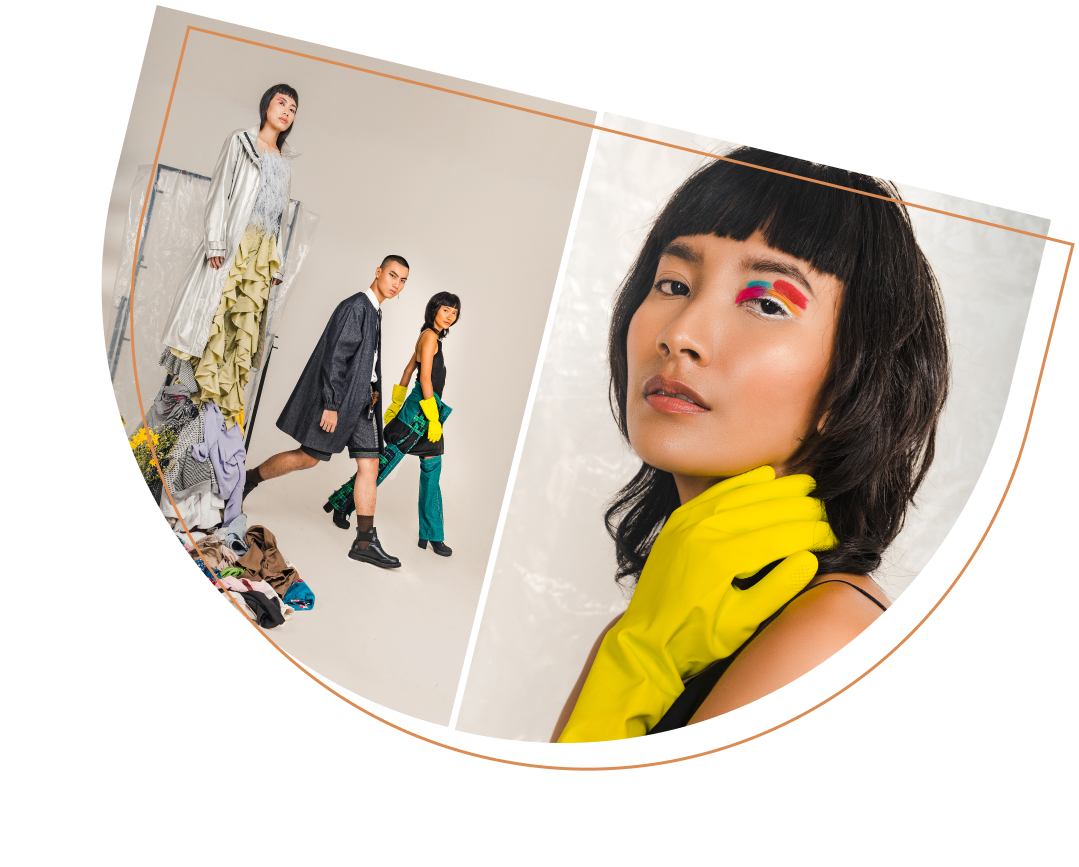
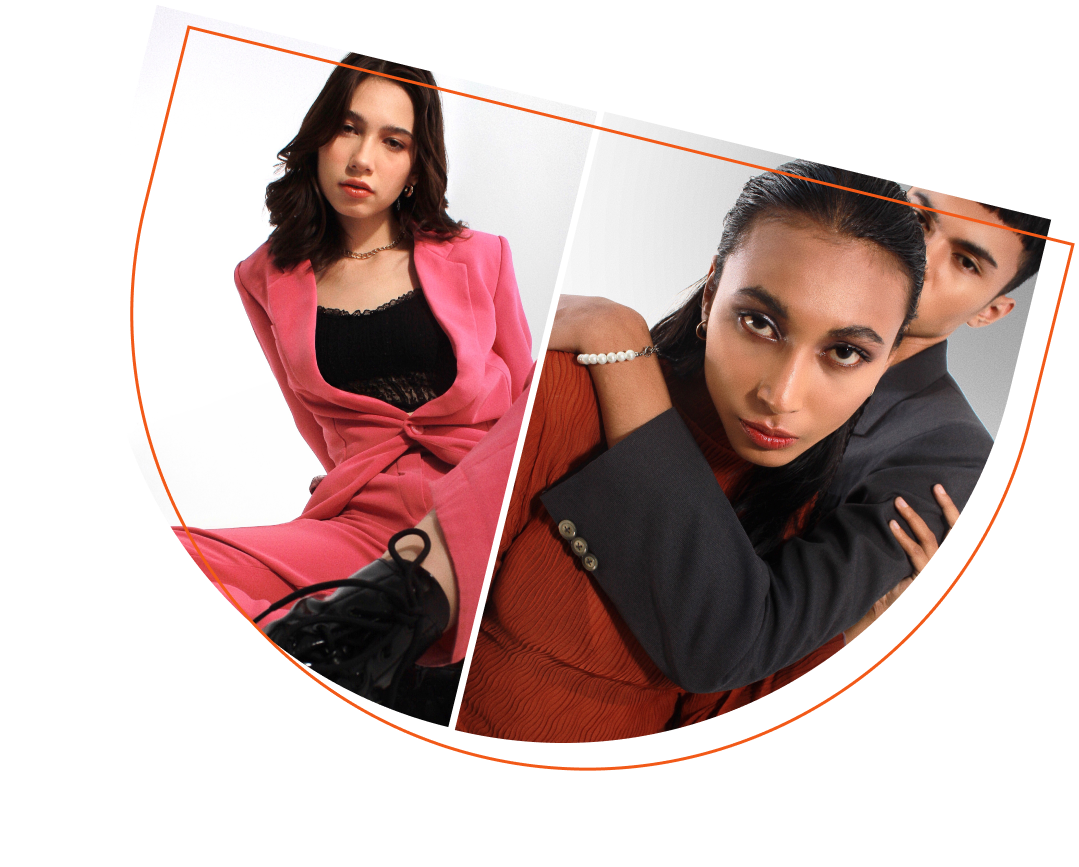
photo update

diff --git a/src/components/home/about/about.js b/src/components/home/about/about.js
@@ -12,9 +12,12 @@ import {
   AboutSectionPartHalfText,
   AboutSectionPartColumn,
   AboutContainerBg,
+  About3ImageContainer,
 } from "./about.element";
+import image_3_1 from "../../../assets/image/about/photo 1.png";
+import image_3_2 from "../../../assets/image/about/photo 2.png";
+import image_3_3 from "../../../assets/image/about/photo 3.png";
 import image_2 from "../../../assets/image/about/Lookbook 1.png";
-import image_3 from "../../../assets/image/about/Lookbook 2.png";
 import image_about1 from "../../../assets/image/about/About Us Photo 1.png";
 import image_about2 from "../../../assets/image/about/About Us Photo 2.png";
 
@@ -80,7 +83,15 @@ const about = () => {
               <img src={image_2} alt="uifw" />
             </AboutSection>
             <AboutSection>
-              <img src={image_3} alt="uifw" />
+              <About3ImageContainer>
+                <img src={image_3_1} alt="uifw" />
+              </About3ImageContainer>
+              <About3ImageContainer>
+                <img src={image_3_2} alt="uifw" />
+              </About3ImageContainer>
+              <About3ImageContainer>
+                <img src={image_3_3} alt="uifw" />
+              </About3ImageContainer>
             </AboutSection>
           </AboutContent>
         </AboutContainer>

diff --git a/src/components/home/about/about.element.js b/src/components/home/about/about.element.js
@@ -175,3 +175,7 @@ export const AboutImage2Container = styled.div`
   margin-right: auto;
   padding-bottom: 2px;
 `;
+
+export const About3ImageContainer = styled.div`
+width:33.3%;
+float :left;`
